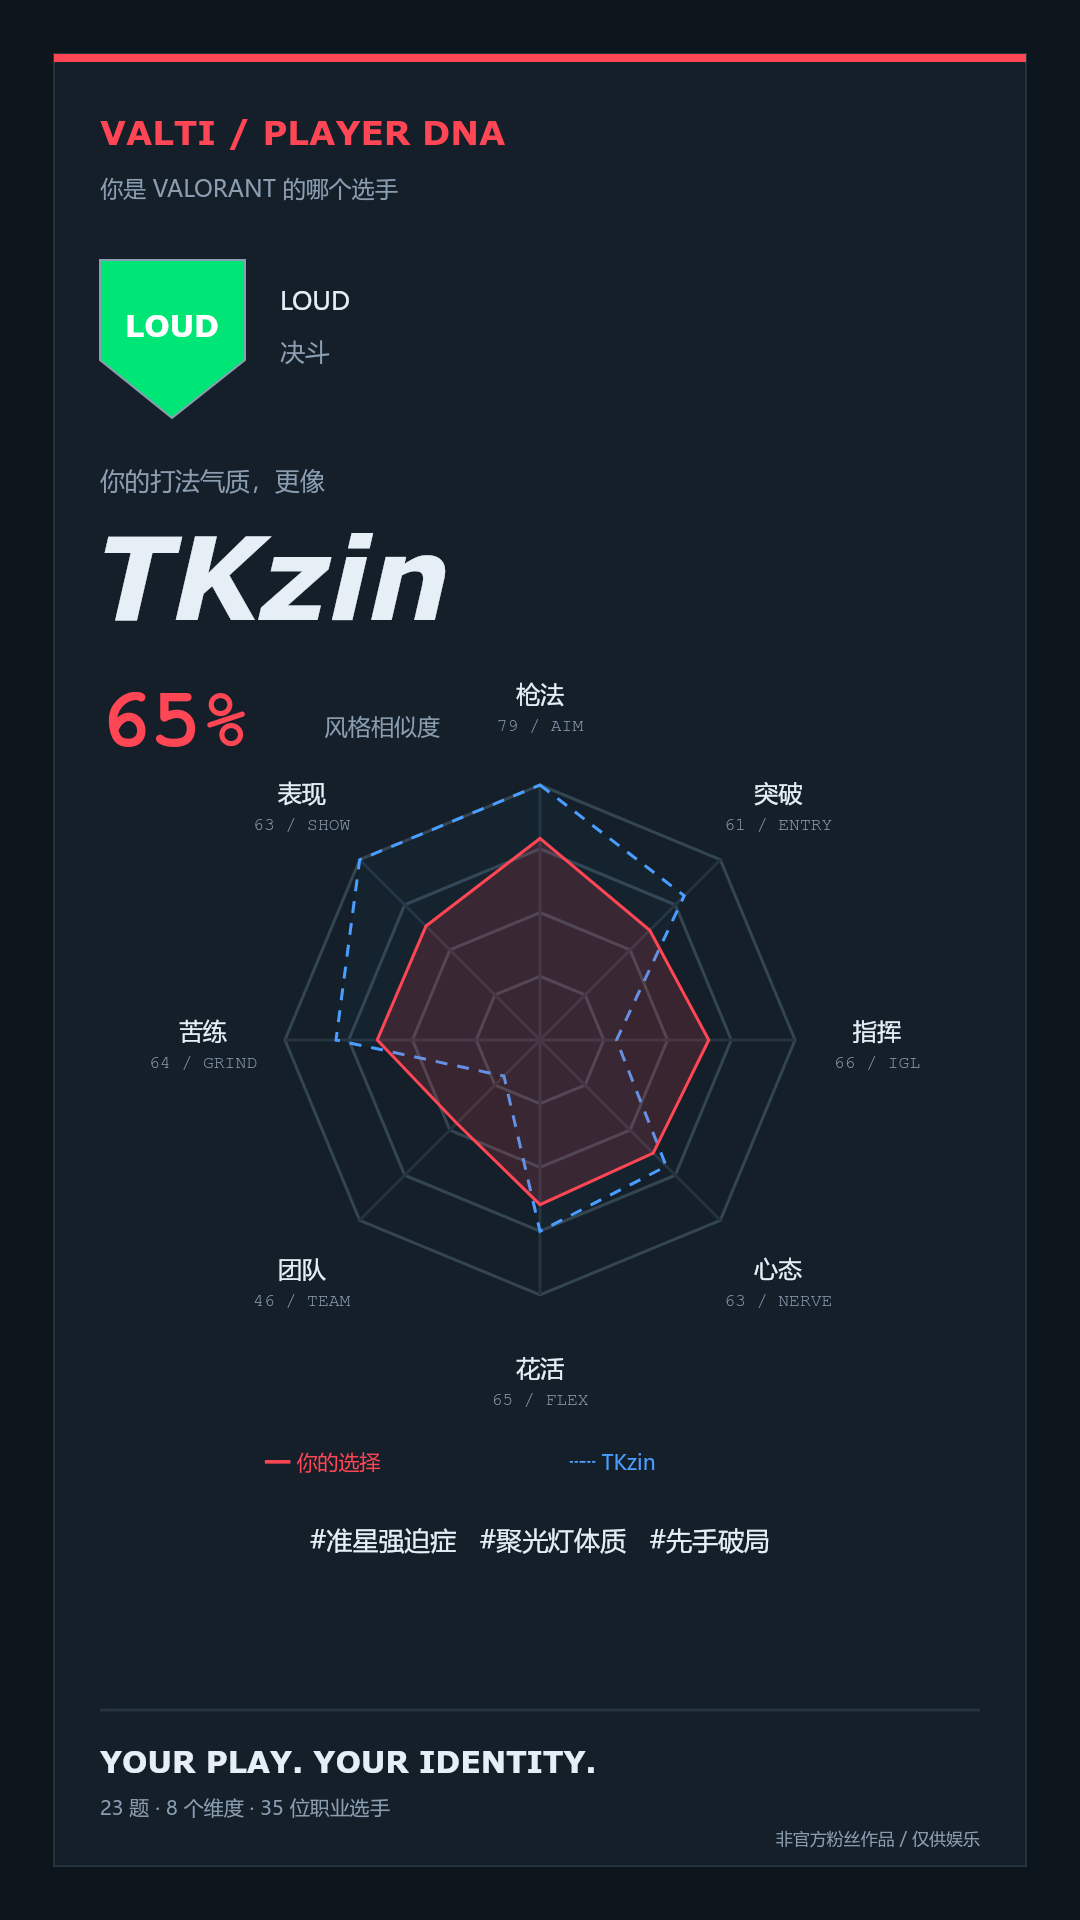
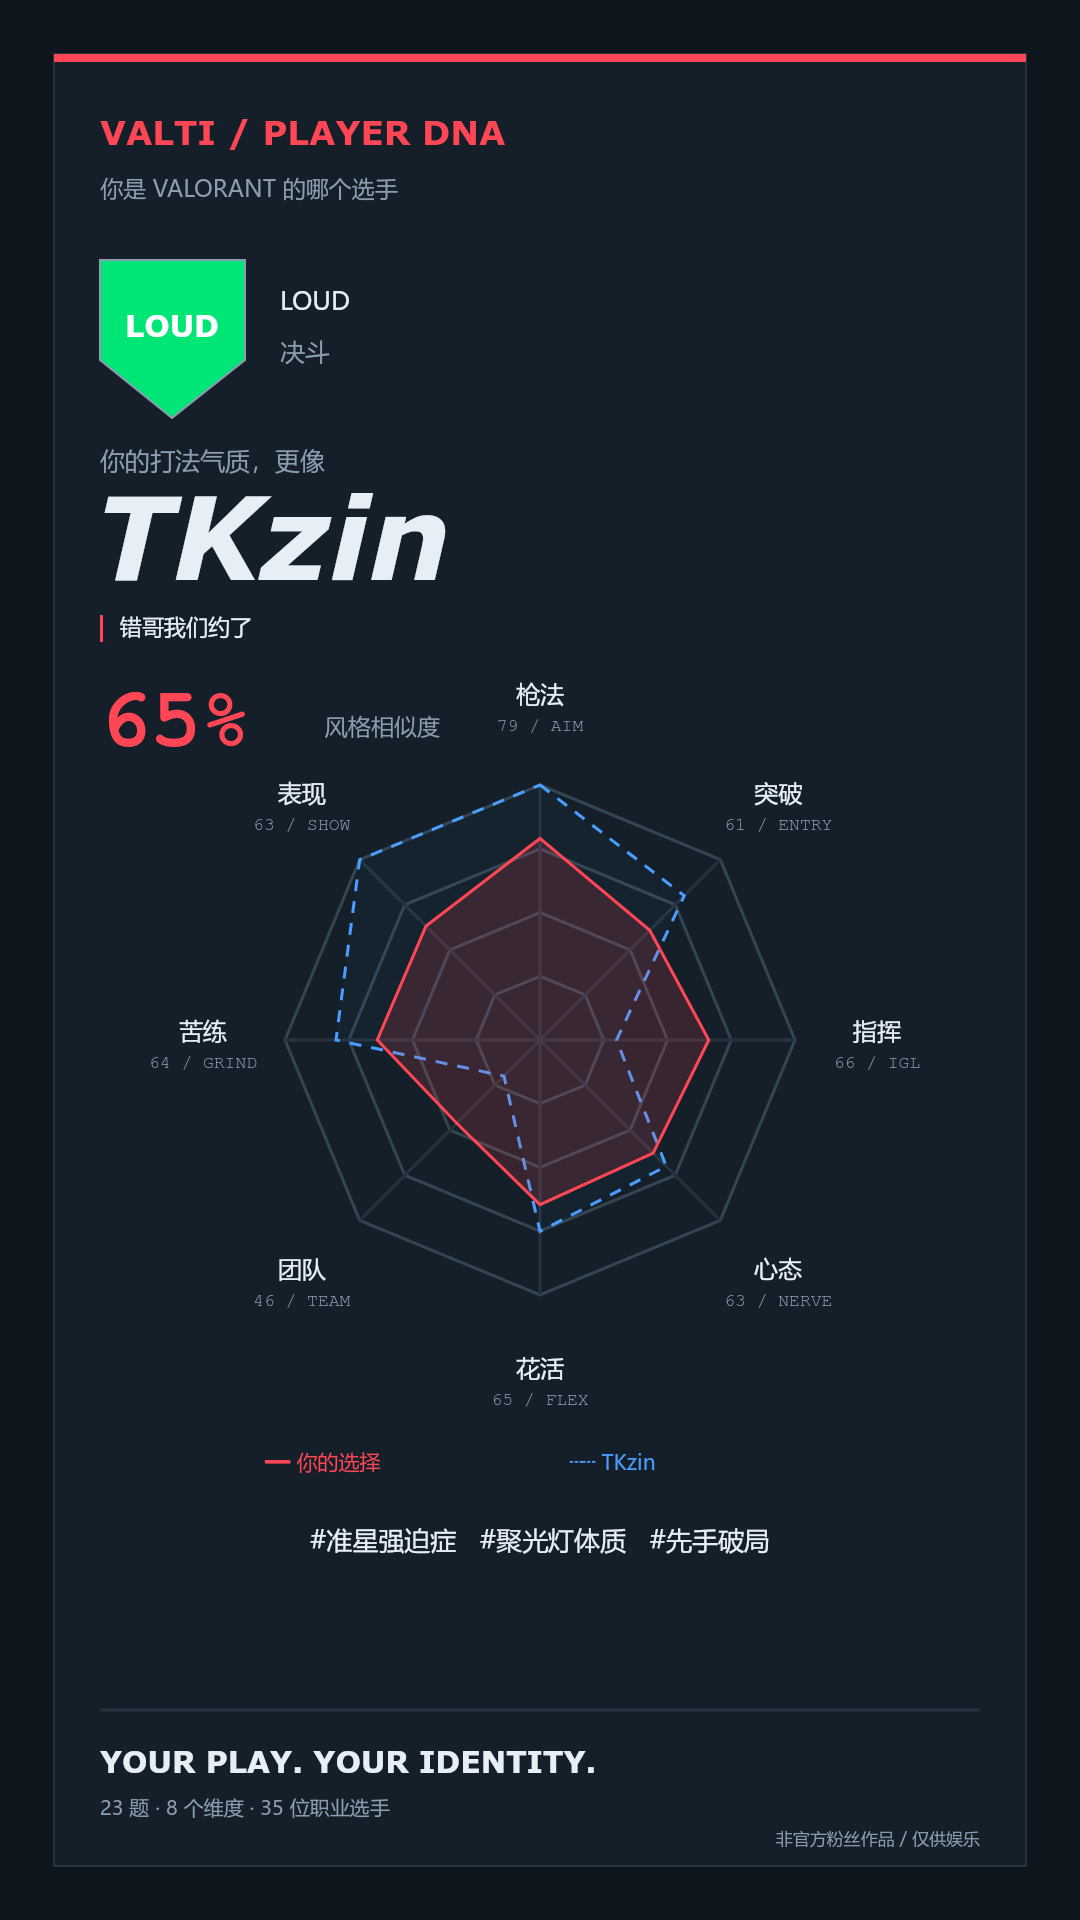
Show original player descriptions on result and share cards

Changed region(s): [[0.0917, 0.2188, 0.4278, 0.3438]]

diff --git a/app.js b/app.js
@@ -534,7 +534,7 @@ if (typeof document !== "undefined") {
     current = { entry, r };
     const p = r.top.player;
     page(
-      `<div class="result-head"><div class="eyebrow">ANALYSIS COMPLETE / 你的选手 DNA</div><a class="text-btn" href="#history">查看历史 →</a></div><section class="result-grid"><div class="panel identity"><div class="identity-top">${shield(p)}<div><div class="muted" style="font-size:12px">${esc(team(p).name)}</div><span class="role-tag">${esc(p.role)}${p.igl ? " · 指挥" : ""}</span>${p.sub ? `<span class="role-tag">副位 · ${esc(p.sub)}</span>` : ""}</div></div><span class="pretitle">你的打法气质，更像</span><h1>${esc(p.name)}</h1><div class="similarity"><strong>${r.similarity}<span style="font-size:24px;color:var(--red)">%</span></strong><span>风格相似度</span></div>${r.blend ? `<div class="blend">你 = ${r.share}% ${esc(p.name)} + ${100 - r.share}% ${esc(r.second.player.name)}</div>` : '<div class="blend">独属于你的风格，不止于一个标签。</div>'}<div class="keywords">${keywords(
+      `<div class="result-head"><div class="eyebrow">ANALYSIS COMPLETE / 你的选手 DNA</div><a class="text-btn" href="#history">查看历史 →</a></div><section class="result-grid"><div class="panel identity"><div class="identity-top">${shield(p)}<div><div class="muted" style="font-size:12px">${esc(team(p).name)}</div><span class="role-tag">${esc(p.role)}${p.igl ? " · 指挥" : ""}</span>${p.sub ? `<span class="role-tag">副位 · ${esc(p.sub)}</span>` : ""}</div></div><span class="pretitle">你的打法气质，更像</span><h1>${esc(p.name)}</h1><blockquote class="original-note original-note--hero">${esc(p.note)}</blockquote><div class="similarity"><strong>${r.similarity}<span style="font-size:24px;color:var(--red)">%</span></strong><span>风格相似度</span></div>${r.blend ? `<div class="blend">你 = ${r.share}% ${esc(p.name)} + ${100 - r.share}% ${esc(r.second.player.name)}</div>` : '<div class="blend">独属于你的风格，不止于一个标签。</div>'}<div class="keywords">${keywords(
         p,
       )
         .map((k) => `<span>${esc(k)}</span>`)
@@ -543,7 +543,7 @@ if (typeof document !== "undefined") {
         )}</div></div><div class="panel"><div class="section-label">YOUR PLAYSTYLE / 八维对照</div>${radar(
         r.pct,
         p.v.map((x) => x * 10),
-      )}<div class="legend"><span>你的选择</span><span class="ref">${esc(p.name)}</span></div><div class="dimension-list">${DATA.dims.map((d, i) => `<div>${esc(d.label)}<strong>${Math.round(r.pct[i])}</strong></div>`).join("")}</div></div><div class="panel"><div class="section-label">PLAYER PERSONALITY / 你的人设</div><p class="profile">${esc(profile(p))}</p><blockquote class="original-note">${esc(p.note)}</blockquote><p class="muted" style="font-size:11px;margin-top:16px">代表英雄：${esc(p.heroes)}</p></div><div class="panel"><div class="section-label">ROLE CONFESSION / 你的位置自白</div><h2>${esc(r.role)}</h2><p class="profile">${esc(roleVoice[r.role])}在${esc(r.role)}选手里，你最像 ${esc(r.roleBest.name)}，最不像 ${esc(r.roleLeast.name)}。这是节奏和选择的差异，不是实力排名。</p>${r.pct[2] >= 70 ? '<span class="role-tag">✦ 指挥潜质 · IGL ≥ 70</span>' : ""}</div><div class="panel scene"><div><div class="section-label">YOUR HIGHLIGHT</div><h2>你的名场面</h2></div><p>${esc(scene(entry.answers))}</p></div><div class="panel"><div class="section-label">BEST DUO / 最佳拍档</div><div class="partner-line">${shield(r.complement)}<strong>${esc(r.complement.name)}</strong></div><p class="profile">你们俩组队会把短板补成另一种强项：${esc(traits[r.pct.indexOf(Math.max(...r.pct))])}由你带头，他用${esc(keywords(r.complement)[0])}接住你的另一面。记得先沟通节奏，互补才不会变成各打各的。</p></div><div class="panel"><div class="section-label">COLLECTION / 本机解锁进度</div><h2>${state.unlocked.length}<span class="muted" style="font-size:18px"> / 35</span></h2><p class="muted" style="font-size:13px">每次完成测试，解锁你的主选手。混合结果会同时解锁两位选手。</p><a class="text-btn" href="#atlas">前往选手图鉴 ↗</a></div></section><div class="button-row"><button class="btn primary" data-action="share">保存分享卡 ↗</button>${r.version === 1 ? '<button class="btn" data-action="upgrade">补答 3 道枪法题</button>' : ""}<button class="btn" data-action="restart">再测一次</button><a class="btn ghost" href="#atlas">查看图鉴</a></div><p class="muted" style="font-size:10px;margin-top:18px">${r.version === 1 ? "这是旧版 20 题结果。补答 3 道枪法题，即可生成新版结果。" : "八维为风格指数，枪法结合专项自评；相似度不代表实力。"}所有结果仅保存在当前浏览器。</p>`,
+      )}<div class="legend"><span>你的选择</span><span class="ref">${esc(p.name)}</span></div><div class="dimension-list">${DATA.dims.map((d, i) => `<div>${esc(d.label)}<strong>${Math.round(r.pct[i])}</strong></div>`).join("")}</div></div><div class="panel"><div class="section-label">PLAYSTYLE INSIGHT / 打法解读</div><p class="profile">${esc(profile(p))}</p><p class="muted" style="font-size:11px;margin-top:16px">代表英雄：${esc(p.heroes)}</p></div><div class="panel"><div class="section-label">ROLE CONFESSION / 你的位置自白</div><h2>${esc(r.role)}</h2><p class="profile">${esc(roleVoice[r.role])}在${esc(r.role)}选手里，你最像 ${esc(r.roleBest.name)}，最不像 ${esc(r.roleLeast.name)}。这是节奏和选择的差异，不是实力排名。</p>${r.pct[2] >= 70 ? '<span class="role-tag">✦ 指挥潜质 · IGL ≥ 70</span>' : ""}</div><div class="panel scene"><div><div class="section-label">YOUR HIGHLIGHT</div><h2>你的名场面</h2></div><p>${esc(scene(entry.answers))}</p></div><div class="panel"><div class="section-label">BEST DUO / 最佳拍档</div><div class="partner-line">${shield(r.complement)}<strong>${esc(r.complement.name)}</strong></div><p class="profile">你们俩组队会把短板补成另一种强项：${esc(traits[r.pct.indexOf(Math.max(...r.pct))])}由你带头，他用${esc(keywords(r.complement)[0])}接住你的另一面。记得先沟通节奏，互补才不会变成各打各的。</p></div><div class="panel"><div class="section-label">COLLECTION / 本机解锁进度</div><h2>${state.unlocked.length}<span class="muted" style="font-size:18px"> / 35</span></h2><p class="muted" style="font-size:13px">每次完成测试，解锁你的主选手。混合结果会同时解锁两位选手。</p><a class="text-btn" href="#atlas">前往选手图鉴 ↗</a></div></section><div class="button-row"><button class="btn primary" data-action="share">保存分享卡 ↗</button>${r.version === 1 ? '<button class="btn" data-action="upgrade">补答 3 道枪法题</button>' : ""}<button class="btn" data-action="restart">再测一次</button><a class="btn ghost" href="#atlas">查看图鉴</a></div><p class="muted" style="font-size:10px;margin-top:18px">${r.version === 1 ? "这是旧版 20 题结果。补答 3 道枪法题，即可生成新版结果。" : "八维为风格指数，枪法结合专项自评；相似度不代表实力。"}所有结果仅保存在当前浏览器。</p>`,
     );
   }
   function atlas() {
@@ -688,13 +688,18 @@ if (typeof document !== "undefined") {
     ctx.fillText(p.role + (p.igl ? " · 指挥" : ""), 280, 361);
     ctx.fillStyle = "#8b9db0";
     ctx.font = '25px "Microsoft YaHei",sans-serif';
-    ctx.fillText("你的打法气质，更像", 100, 490);
+    ctx.fillText("你的打法气质，更像", 100, 470);
     ctx.fillStyle = "#e6eef6";
     let size = 115;
     do {
       ctx.font = `italic bold ${size--}px system-ui,sans-serif`;
     } while (ctx.measureText(p.name).width > 880 && size > 40);
-    ctx.fillText(p.name, 94, 620);
+    ctx.fillText(p.name, 94, 580);
+    ctx.fillStyle = "#e6eef6";
+    ctx.font = '22px "Microsoft YaHei",sans-serif';
+    const noteBottom = canvasText(ctx, p.note, 120, 635, 860, 30);
+    ctx.fillStyle = "#ff4655";
+    ctx.fillRect(100, 615, 3, noteBottom - 608);
     ctx.fillStyle = "#ff4655";
     ctx.font = "bold 84px monospace";
     ctx.fillText(r.similarity + "%", 100, 746);

diff --git a/styles.css b/styles.css
@@ -630,6 +630,13 @@ footer {
   margin: 20px 0 0;
   overflow-wrap: anywhere;
 }
+.original-note--hero {
+  color: var(--text);
+  font-size: 14px;
+  line-height: 1.75;
+  margin: 12px 0 18px;
+  white-space: pre-wrap;
+}
 .scene {
   grid-column: 1/-1;
   display: grid;

diff --git a/QA.md b/QA.md
@@ -16,6 +16,7 @@
 - 实际生成并检查新版 PNG 尺寸 1080×1920；本次 DOM/Canvas 环境生成与导出约 188ms，分享卡使用新版分数与 23 题标注。
 - 反复生成分享卡时，旧 object URL 被释放，新预览仍然有效。
 - 已人工查看生成的分享卡，中文字体、八维数据、队徽和文字完整。
+- 作者原始 `note` 在结果主卡完整显示；逐一验证 35 位选手的 Canvas 分享卡包含原文，最多两行且不超出文字区域，不与雷达重叠。
 
 ## 尚未验证
 

diff --git a/README.md b/README.md
@@ -18,6 +18,7 @@
 - 35 份 80–110 字人设，包含缺点；基于实际答案的名场面、位置自白、互补拍档。
 - 35 格解锁图鉴，按四个主位置筛选。混合结果同时解锁两人。
 - Canvas 生成 1080×1920 PNG，可下载或在手机上长按保存。
+- 作者原始描述（`note`）逐字展示在结果主卡与 PNG 分享卡上；扩写的打法解读放在下方独立区域。
 - SVG 盾形队徽，不包含官方 Logo、真人照片或外部字体。
 
 ## 数据与算法
